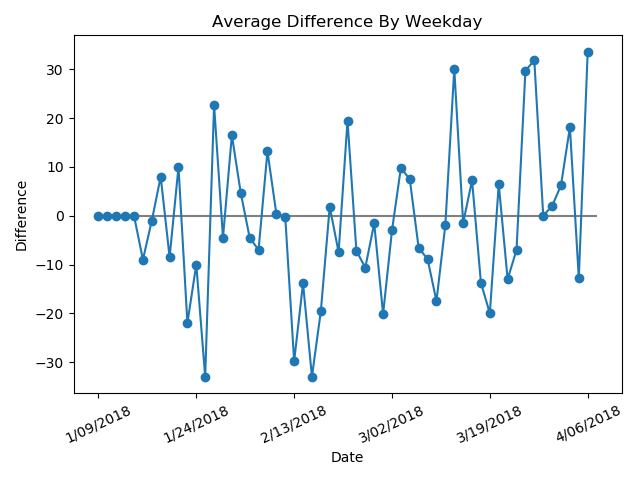
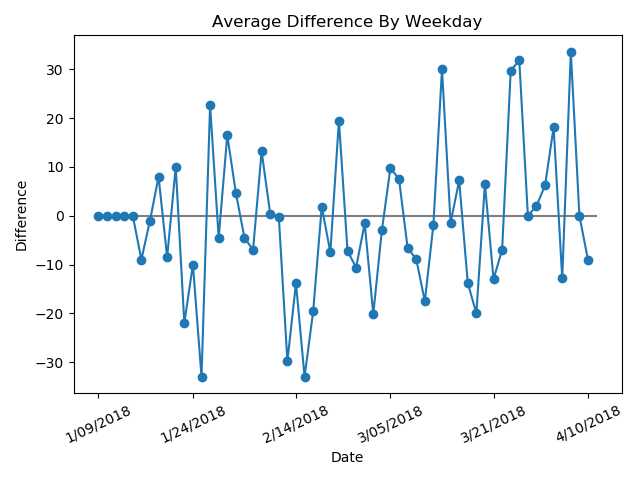
update 4/10

diff --git a/pjeej.py b/pjeej.py
@@ -59,7 +59,9 @@ with open("timein.csv","a",newline="") as csvfile:
 	# writer.writerow(["4/03/2018","Tuesday","8:56", ""])
 	# writer.writerow(["4/04/2018","Wednesday","9:15", "50"])
 	# writer.writerow(["4/05/2018","Thursday","8:42", ""])
-	writer.writerow(["4/06/2018","Friday","9:23", "38"])
+	# writer.writerow(["4/06/2018","Friday","9:23", "38"])
+	# writer.writerow(["4/09/2018","Monday","8:25", "32"]) #[16]
+	writer.writerow(["4/10/2018","Tuesday","8:40", "38"])
 # [1] according to him, left at 8:30 night before 1/12/2018
 # [2] came in before I did 1/15
 # [3] did not check temperature until 9:50 1/15
@@ -75,3 +77,4 @@ with open("timein.csv","a",newline="") as csvfile:
 # [13] 3/19 in before me
 # [14] flew back from his vacation on same day
 # [15] came in after this recorded time and before 9:30
+# [16] came in before I did 4/09
